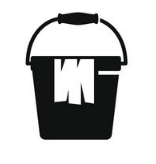
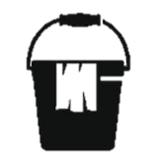
Removed background from services pictures

Changed region(s): [[0.1538, 0.061, 0.8462, 0.9451]]

diff --git a/app/landing/landing.html b/app/landing/landing.html
@@ -4,32 +4,44 @@
 <!-- First step: Services -->
 <div class="grid ui" ng-show="landingCtrl.showFirstStep">
   <div class="one wide column">
-      <!-- <i class="left chevron icon"></i> -->
+    <!-- <i class="left chevron icon"></i> -->
   </div>
   <div class="fourteen wide column grid ui centered">
-    <button class="five wide column blue customOption" ng-repeat="service in landingCtrl.services">
-    <!-- <img src="../../Images/Background.jpg" alt="" class="src"> -->
-    <label>{{service.serviceType}}</label>
-  </button>
+    <button class="five wide column blue customOption ui fade animated button" ng-repeat="service in landingCtrl.services">
+        <div class="visible content">
+          <img src="{{service.picture}}" alt="{{service.picture}}"/>
+          <label>{{service.serviceType}}</label>
+        </div>
+        <div class="hidden content">
+          <i class="shop icon"></i>
+          <label>Add {{service.serviceType}} to cart</label>
+        </div>
+      </button>
   </div>
   <div class="one wide column frwdOption" ng-click="landingCtrl.goToSecondStep()">
-      <i class="right chevron icon"></i>
+    <i class="right chevron icon"></i>
   </div>
 </div>
 
 <!-- Second step: Vehicle Type -->
 <div class="grid ui" ng-show="landingCtrl.showSecondStep">
   <div class="one wide column backOption" ng-click="landingCtrl.goToFirstStep()">
-      <i class="left chevron icon"></i>
+    <i class="left chevron icon"></i>
   </div>
   <div class="fourteen wide column grid ui centered">
-    <button class="five wide column blue customOption" ng-repeat="vehicleType in landingCtrl.vehicleTypes">
-      <img src="{{vehicleType.picture}}" alt="{{vehicleType.picture}}">
-      <label>{{vehicleType.vehicleSize}}</label>
+    <button class="five wide column blue customOption ui fade animated button" ng-repeat="vehicleType in landingCtrl.vehicleTypes">
+      <div class="visible content">
+        <img src="{{vehicleType.picture}}" alt="{{vehicleType.picture}}"/>
+        <label>{{vehicleType.vehicleSize}}</label>
+      </div>
+      <div class="hidden content">
+        <i class="shop icon"></i>
+        <label>Add {{vehicleType.vehicleSize}} to cart</label>
+      </div>
     </button>
   </div>
   <div class="one wide column frwdOption" ng-click="landingCtrl.goToThirdStep()">
-      <i class="right chevron icon"></i>
+    <i class="right chevron icon"></i>
   </div>
 </div>
 

diff --git a/style/style.css b/style/style.css
@@ -13,19 +13,24 @@ img{
 }
 
 .customOption {
-  margin: 5px;
+  margin: 10px;
   height: 150px;
   border: 0;
+  background-color: white;
 }
 
 .customOption img {
   height: 100px;
 }
 
-.customOption label{
+.customOption label, .customOption visible content label, .customOption hidden content label{
   text-align: center;
   font-size: 20px;
   display: block;
+}
+
+.customOption: hover{
+  background-color: red;
 }
 
 .backOption{

diff --git a/app/landing/landing.controller.js b/app/landing/landing.controller.js
@@ -49,7 +49,7 @@
           return item;
         }
         function addServicePicture(item) {
-          item.picture = "../../Images/Service/" + item.serviceType + ".png";
+          item.picture = "../../Images/Service/" + item.serviceType + ".PNG";
           return item;
         }
 
